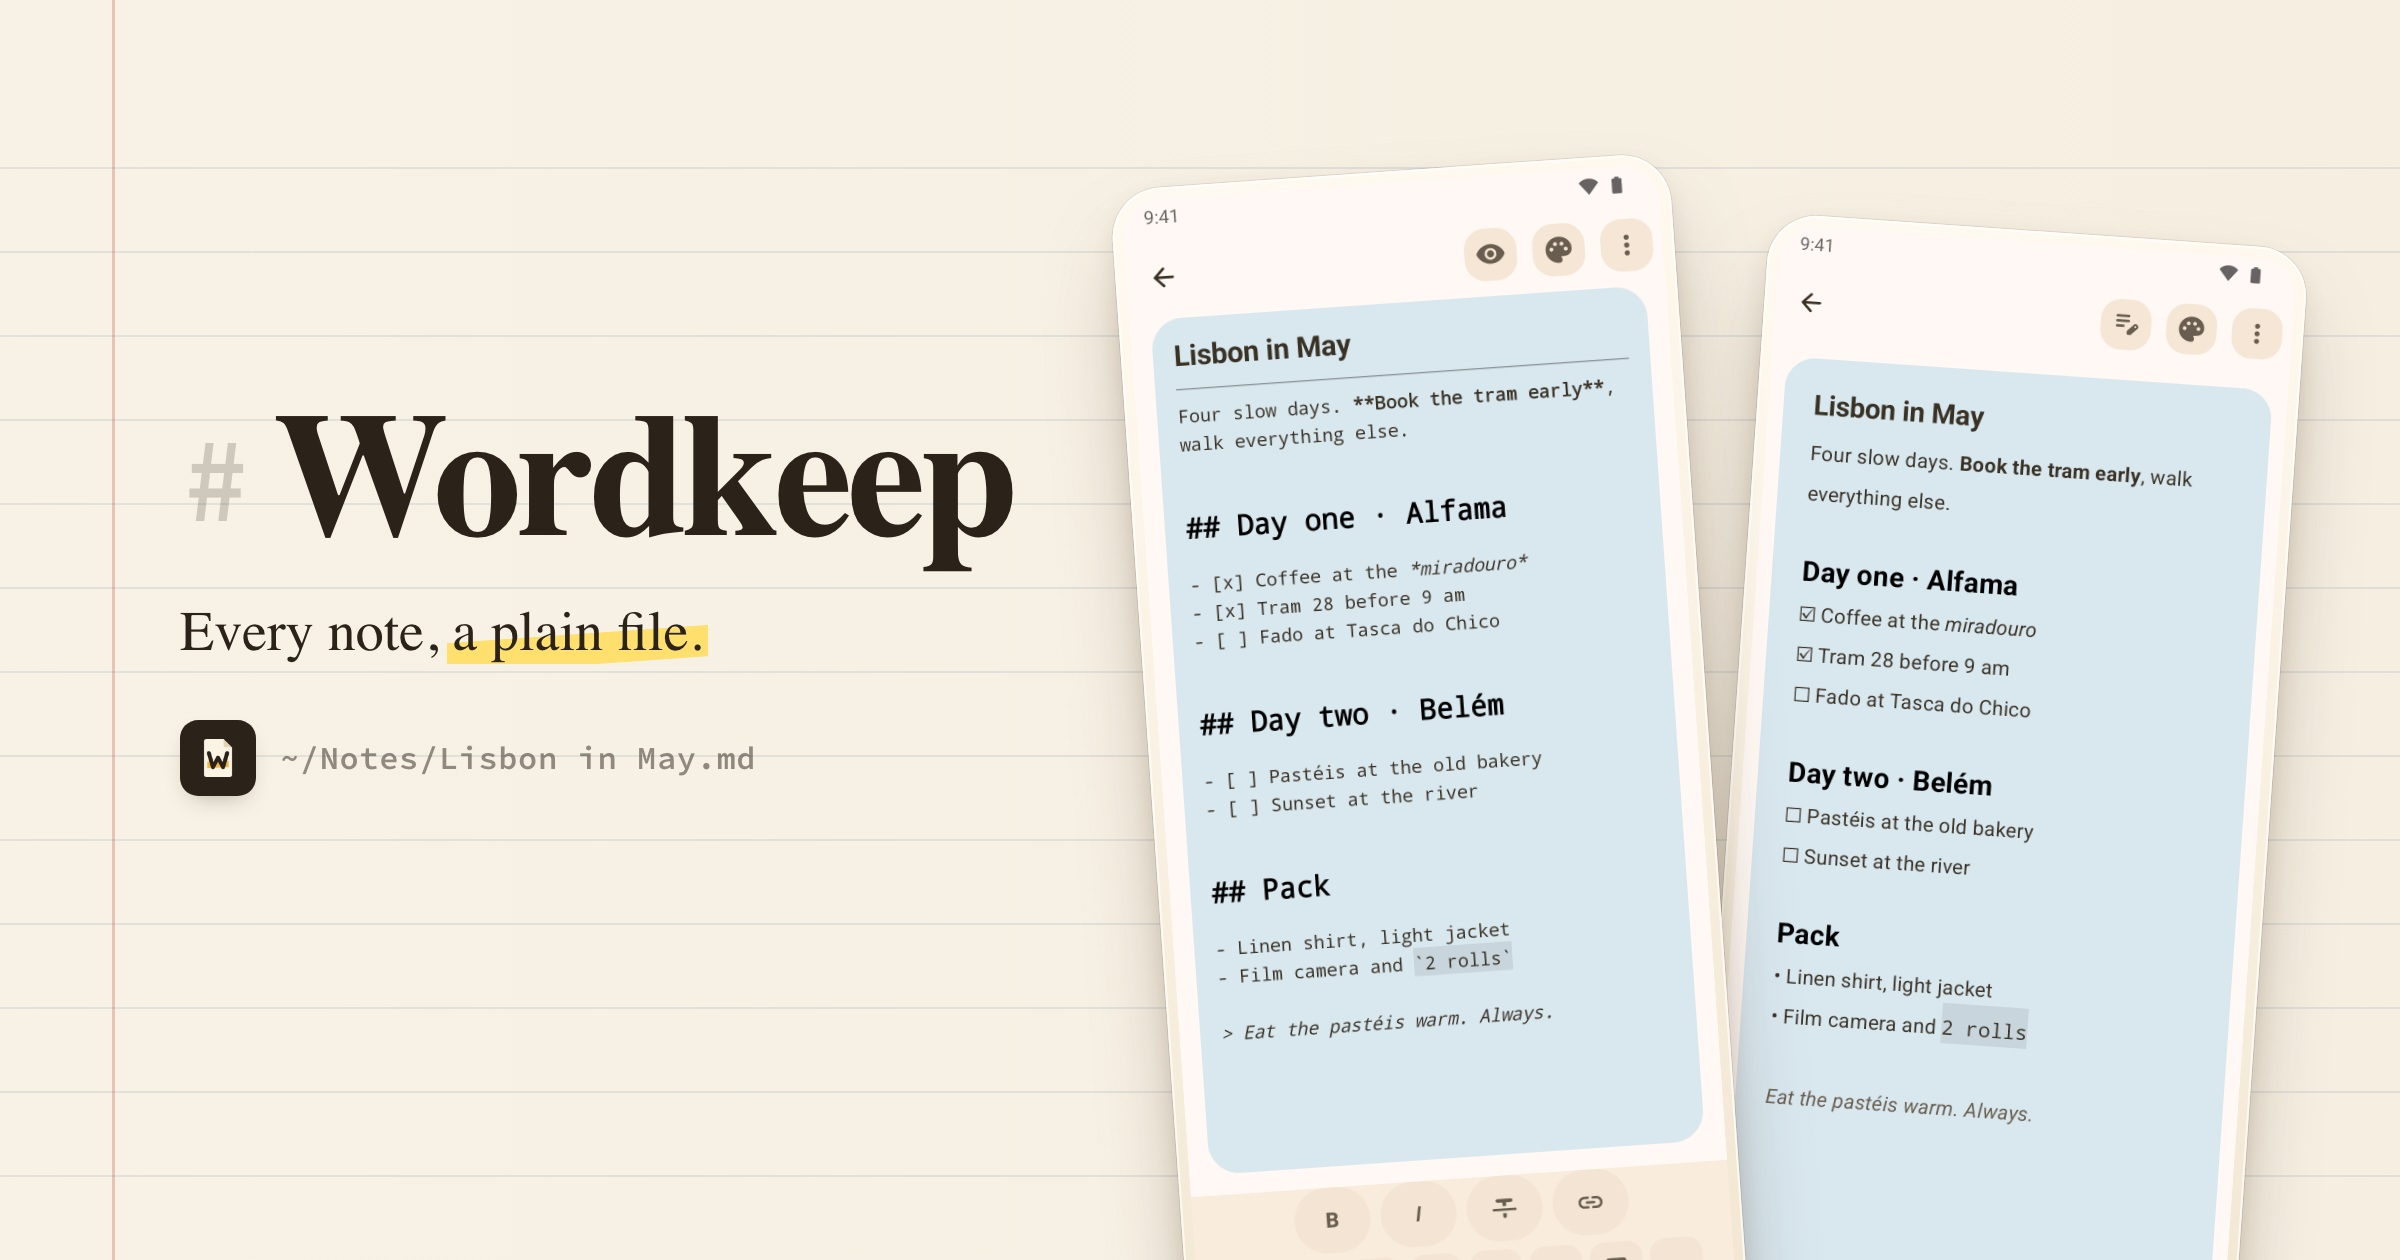
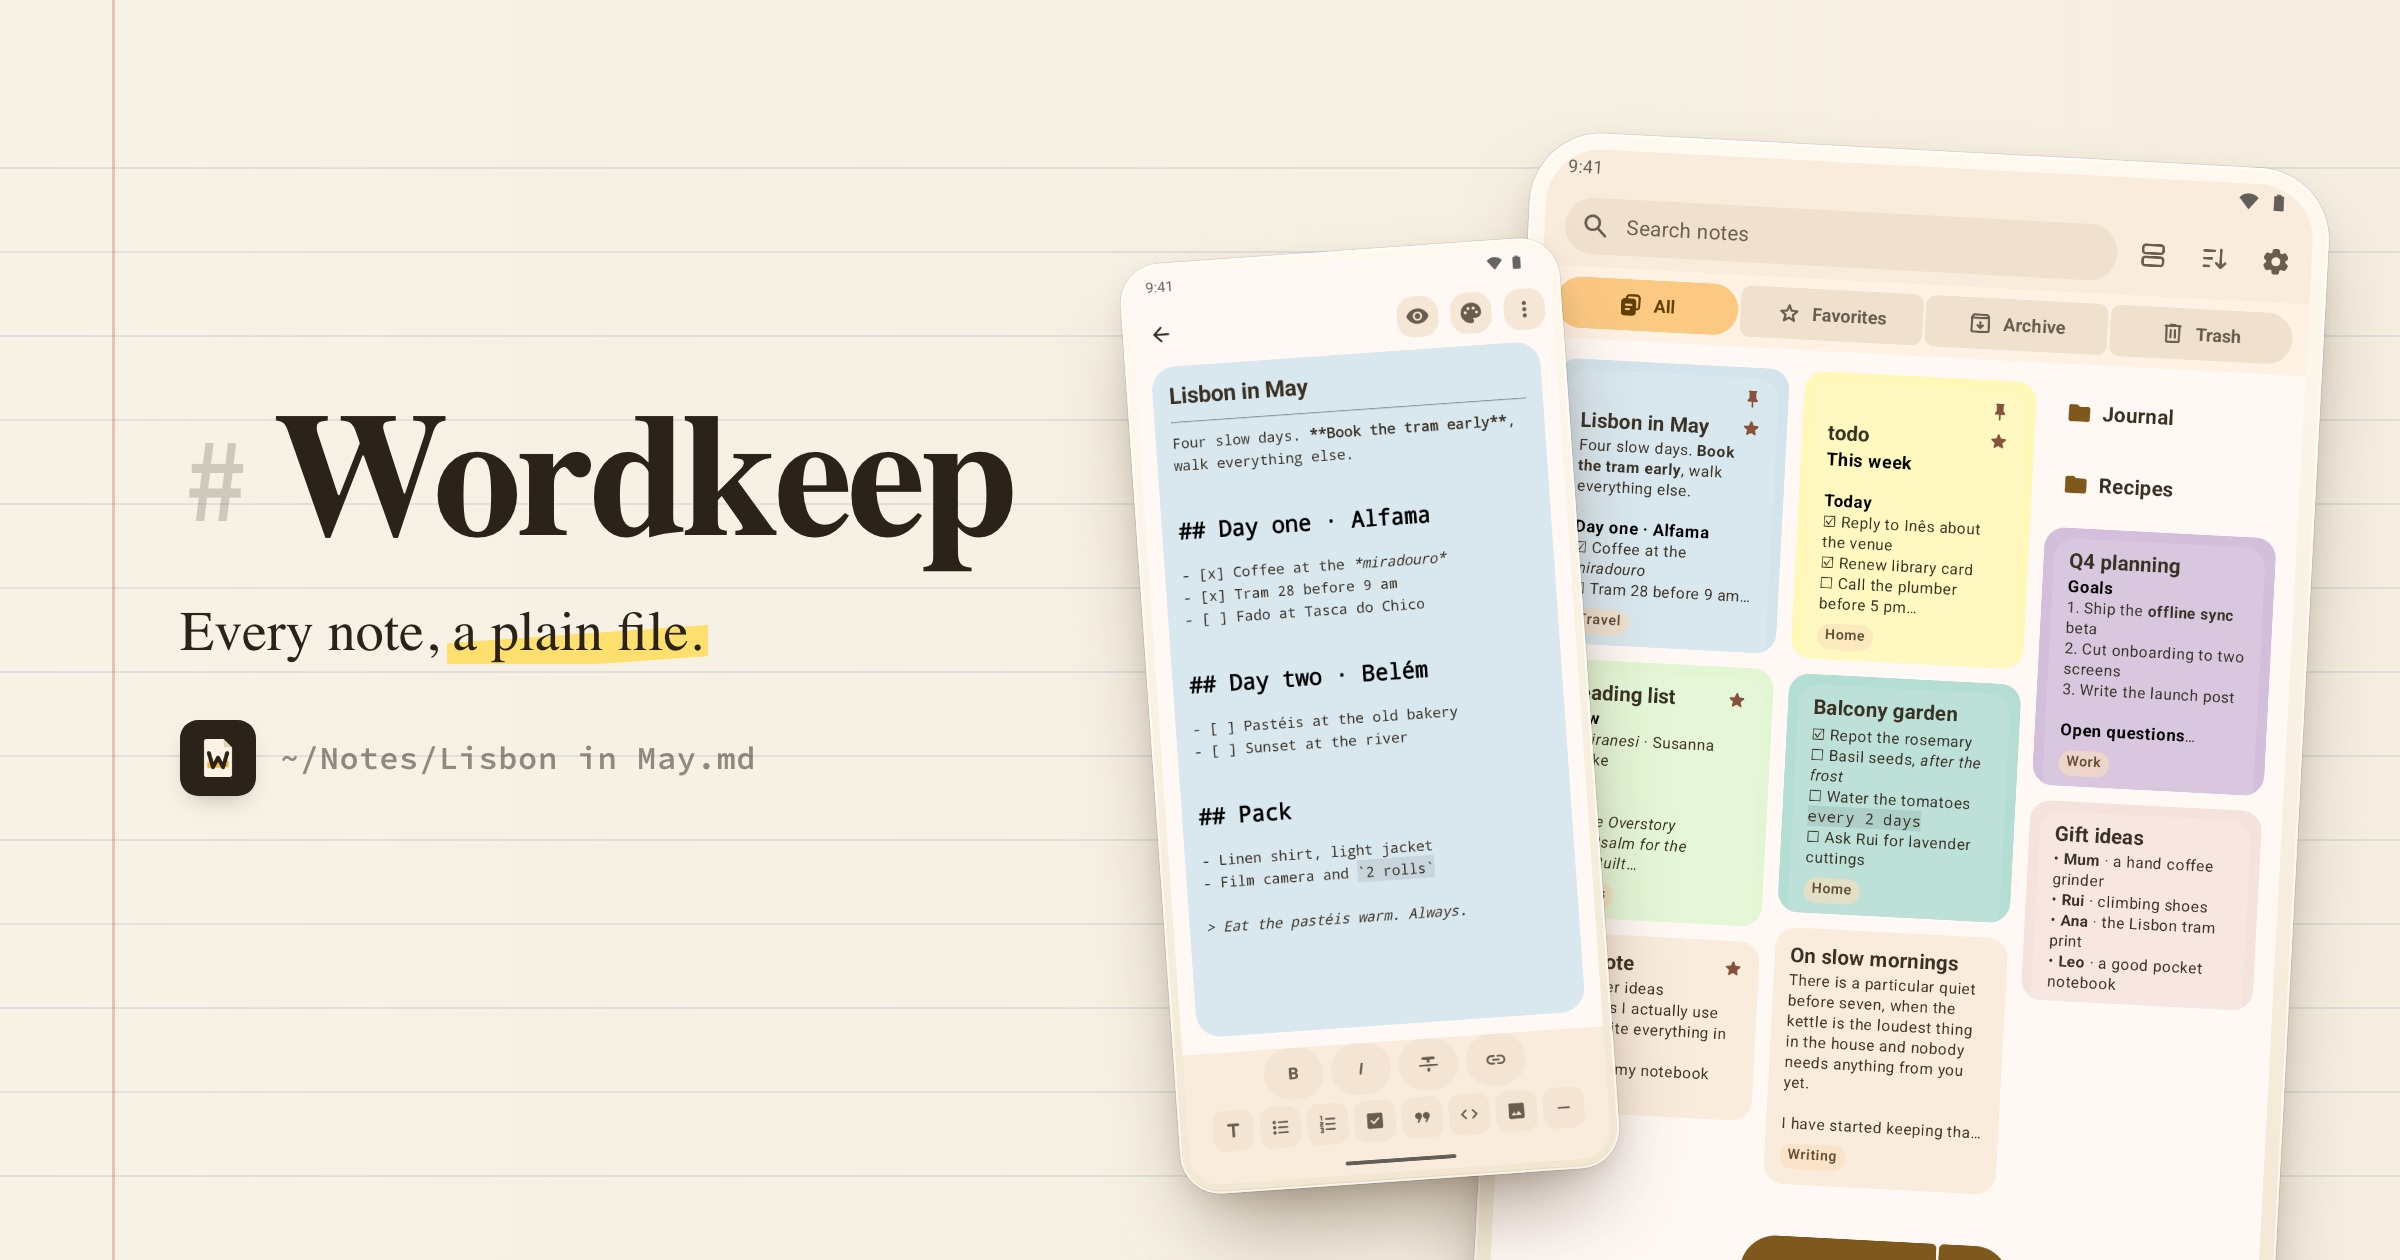
README header: the whole notebook on a 7-inch tablet, the raw note on a phone in front with its toolbar

Changed region(s): [[0.4688, 0.1238, 0.9688, 1.0]]

diff --git a/store-listing/theme.css b/store-listing/theme.css
@@ -90,8 +90,8 @@ html[data-strip="first"] .glyph.seam-left,html[data-strip="last"] .glyph.seam-ri
 .readme .compare-pairs .device-label.after{color:var(--ink)}
 
 /* README name card: a page from the notebook. A red margin rule, the name set as the page's Markdown title
-   (its # in faint mono), the tagline under the highlighter and the file it lives in; on the right the same
-   note twice, written raw in front and read clean behind. */
+   (its # in faint mono), the tagline under the highlighter and the file it lives in; on the right a 7-inch
+   tablet with the whole notebook, and the same note written raw on a phone in front of it. */
 .readme .masthead::before{content:'';position:absolute;left:112px;top:0;bottom:0;width:3px;background:#c46956;opacity:.34;z-index:1}
 .readme .masthead .identity{left:180px;right:auto;top:390px;display:block;color:var(--ink)}
 .readme .masthead .identity img{position:absolute;left:0;bottom:-14px;width:76px;height:76px;border-radius:24%;box-shadow:0 10px 24px -12px #2b221966}
@@ -100,5 +100,5 @@ html[data-strip="first"] .glyph.seam-left,html[data-strip="last"] .glyph.seam-ri
 .readme .masthead .identity small{display:block;margin-top:34px;font-size:56px;font-weight:400}
 .readme .masthead .identity small em{background:linear-gradient(176deg,transparent 52%,var(--hl) 53%,var(--hl) 90%,transparent 91%);padding:0 .1em;margin:0 -.1em}
 .readme .masthead .identity::after{content:'~/Notes/Lisbon in May.md';display:block;margin-top:70px;padding-left:100px;line-height:48px;font:600 32px/48px Mono,monospace;color:#2b221980;letter-spacing:.02em}
-.readme .masthead .back{left:1730px;top:230px;width:540px;transform:rotate(4deg);z-index:2}
-.readme .masthead .front{left:1150px;top:170px;width:560px;transform:rotate(-4deg);z-index:3}
+.readme .masthead .back{left:1500px;top:150px;width:800px;transform:rotate(3deg);z-index:2}
+.readme .masthead .front{left:1150px;top:250px;width:440px;transform:rotate(-4deg);z-index:3}
